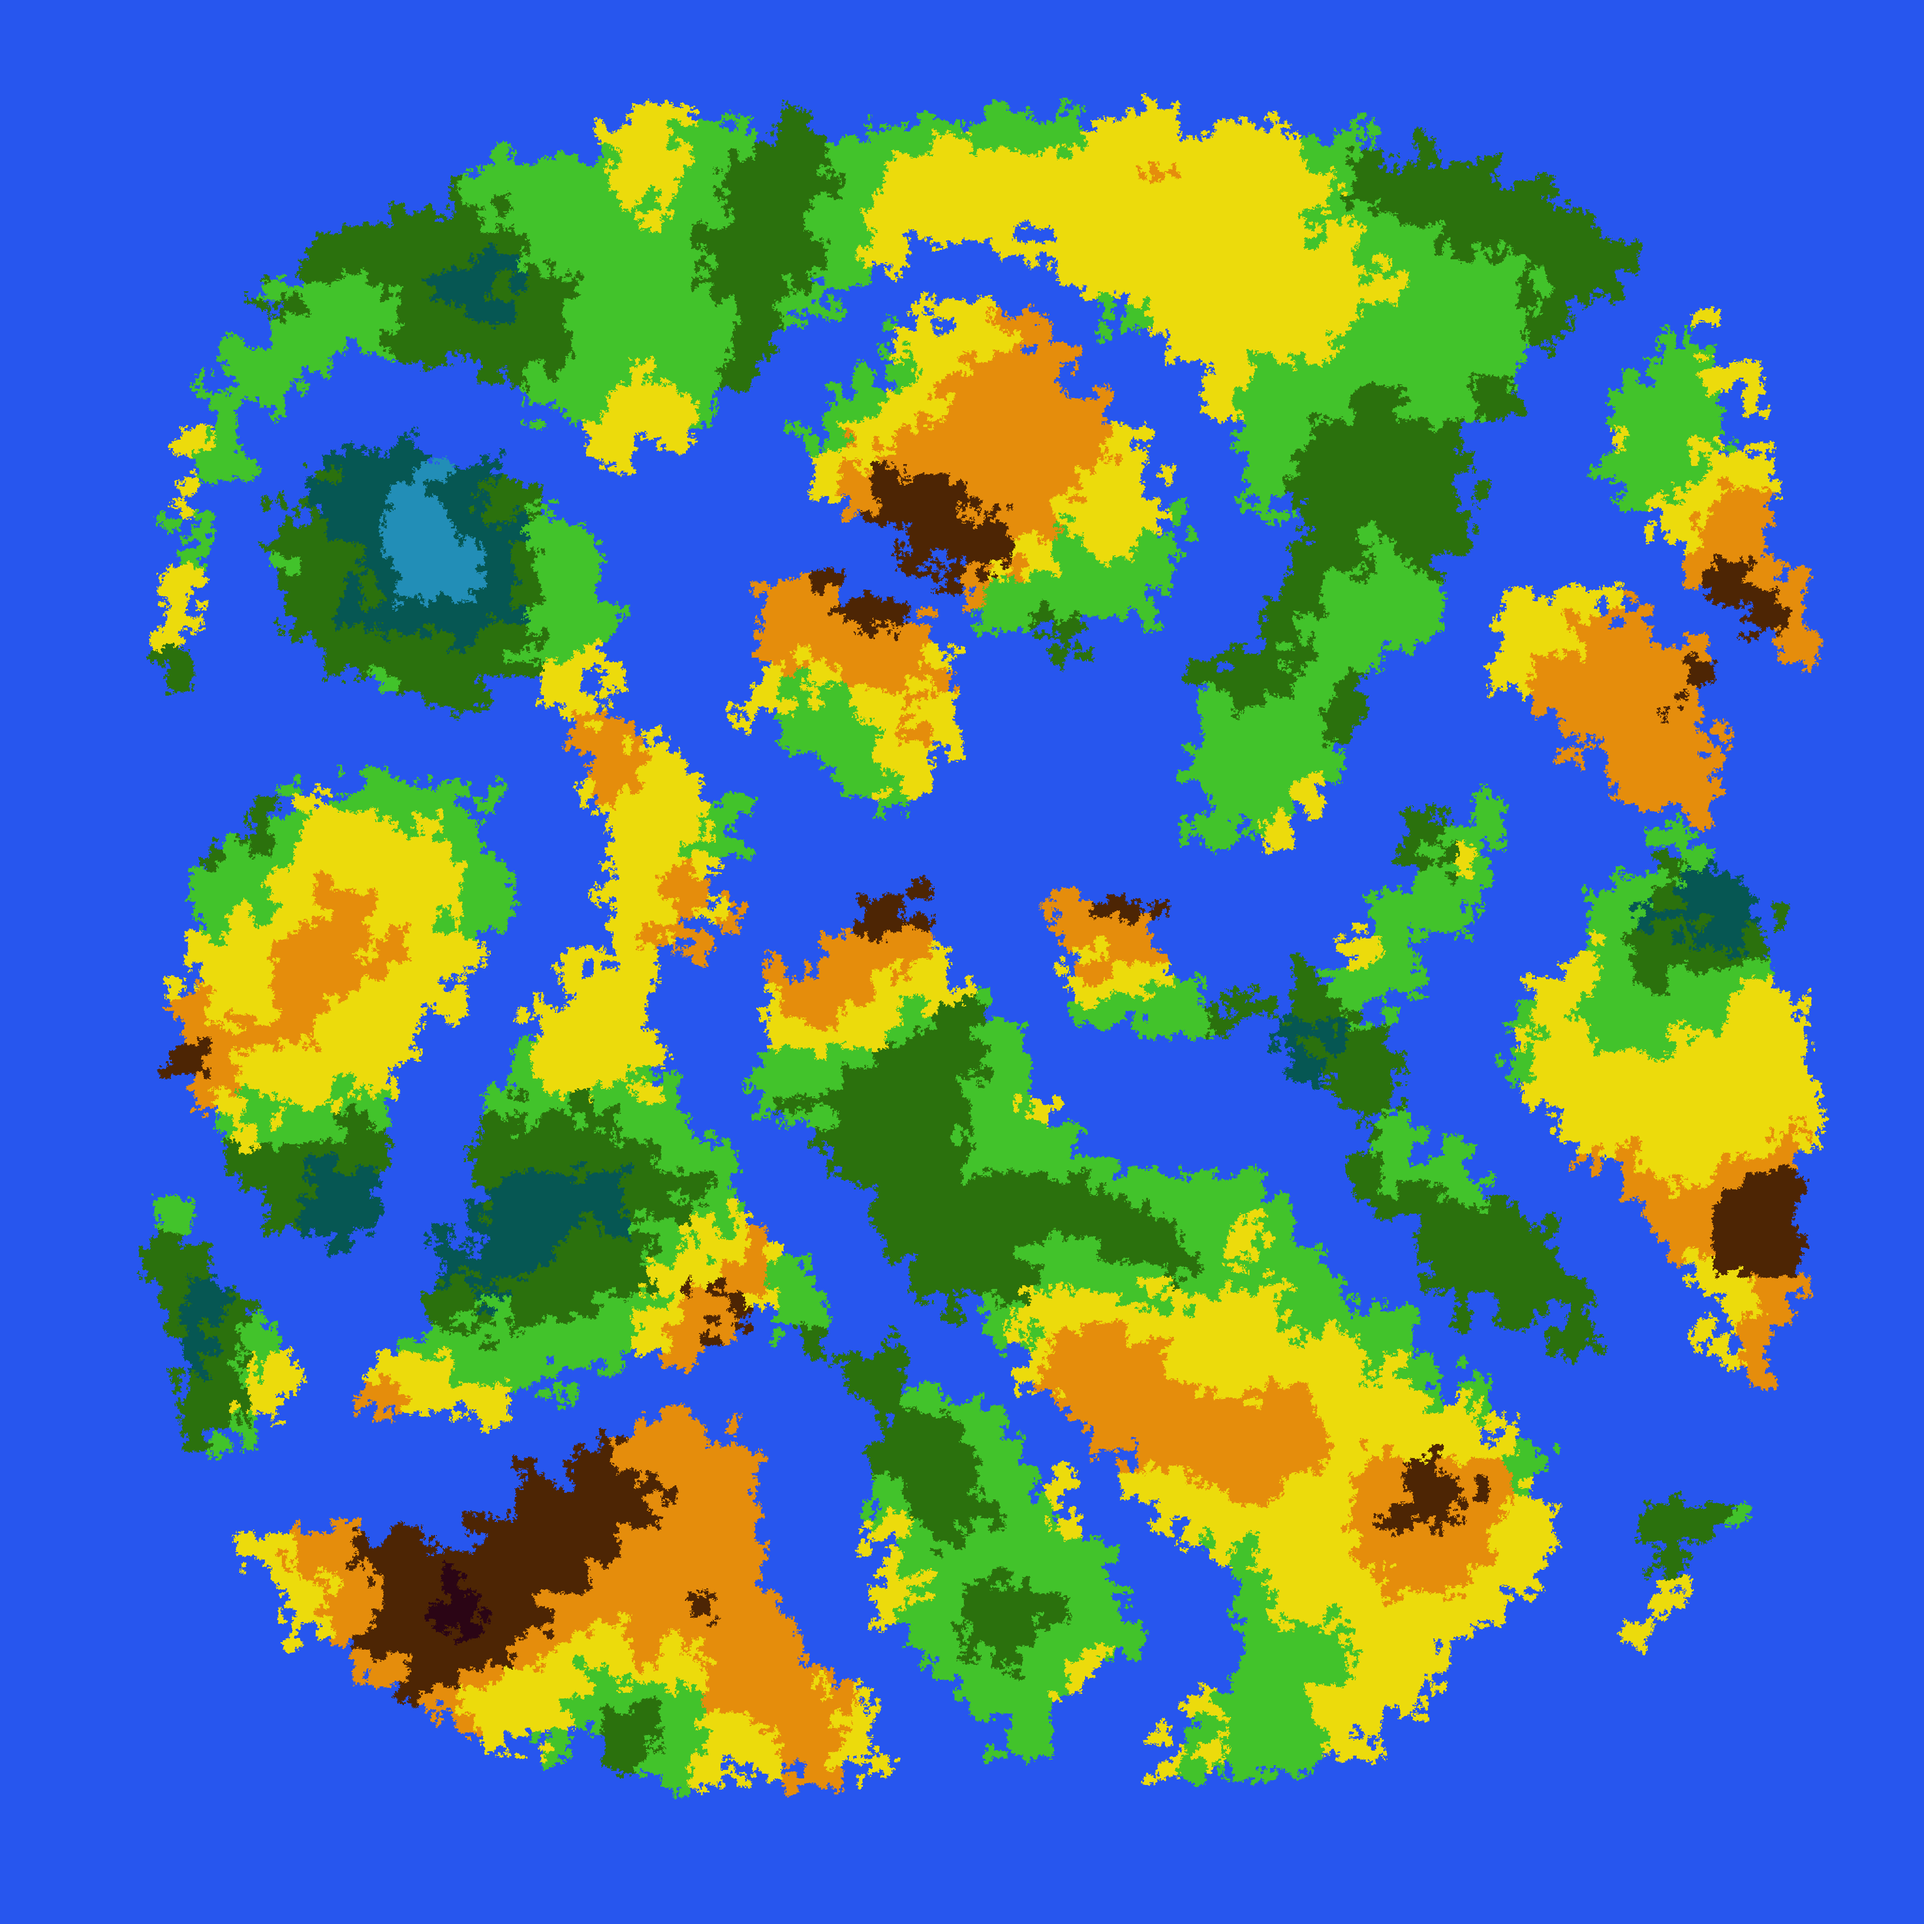
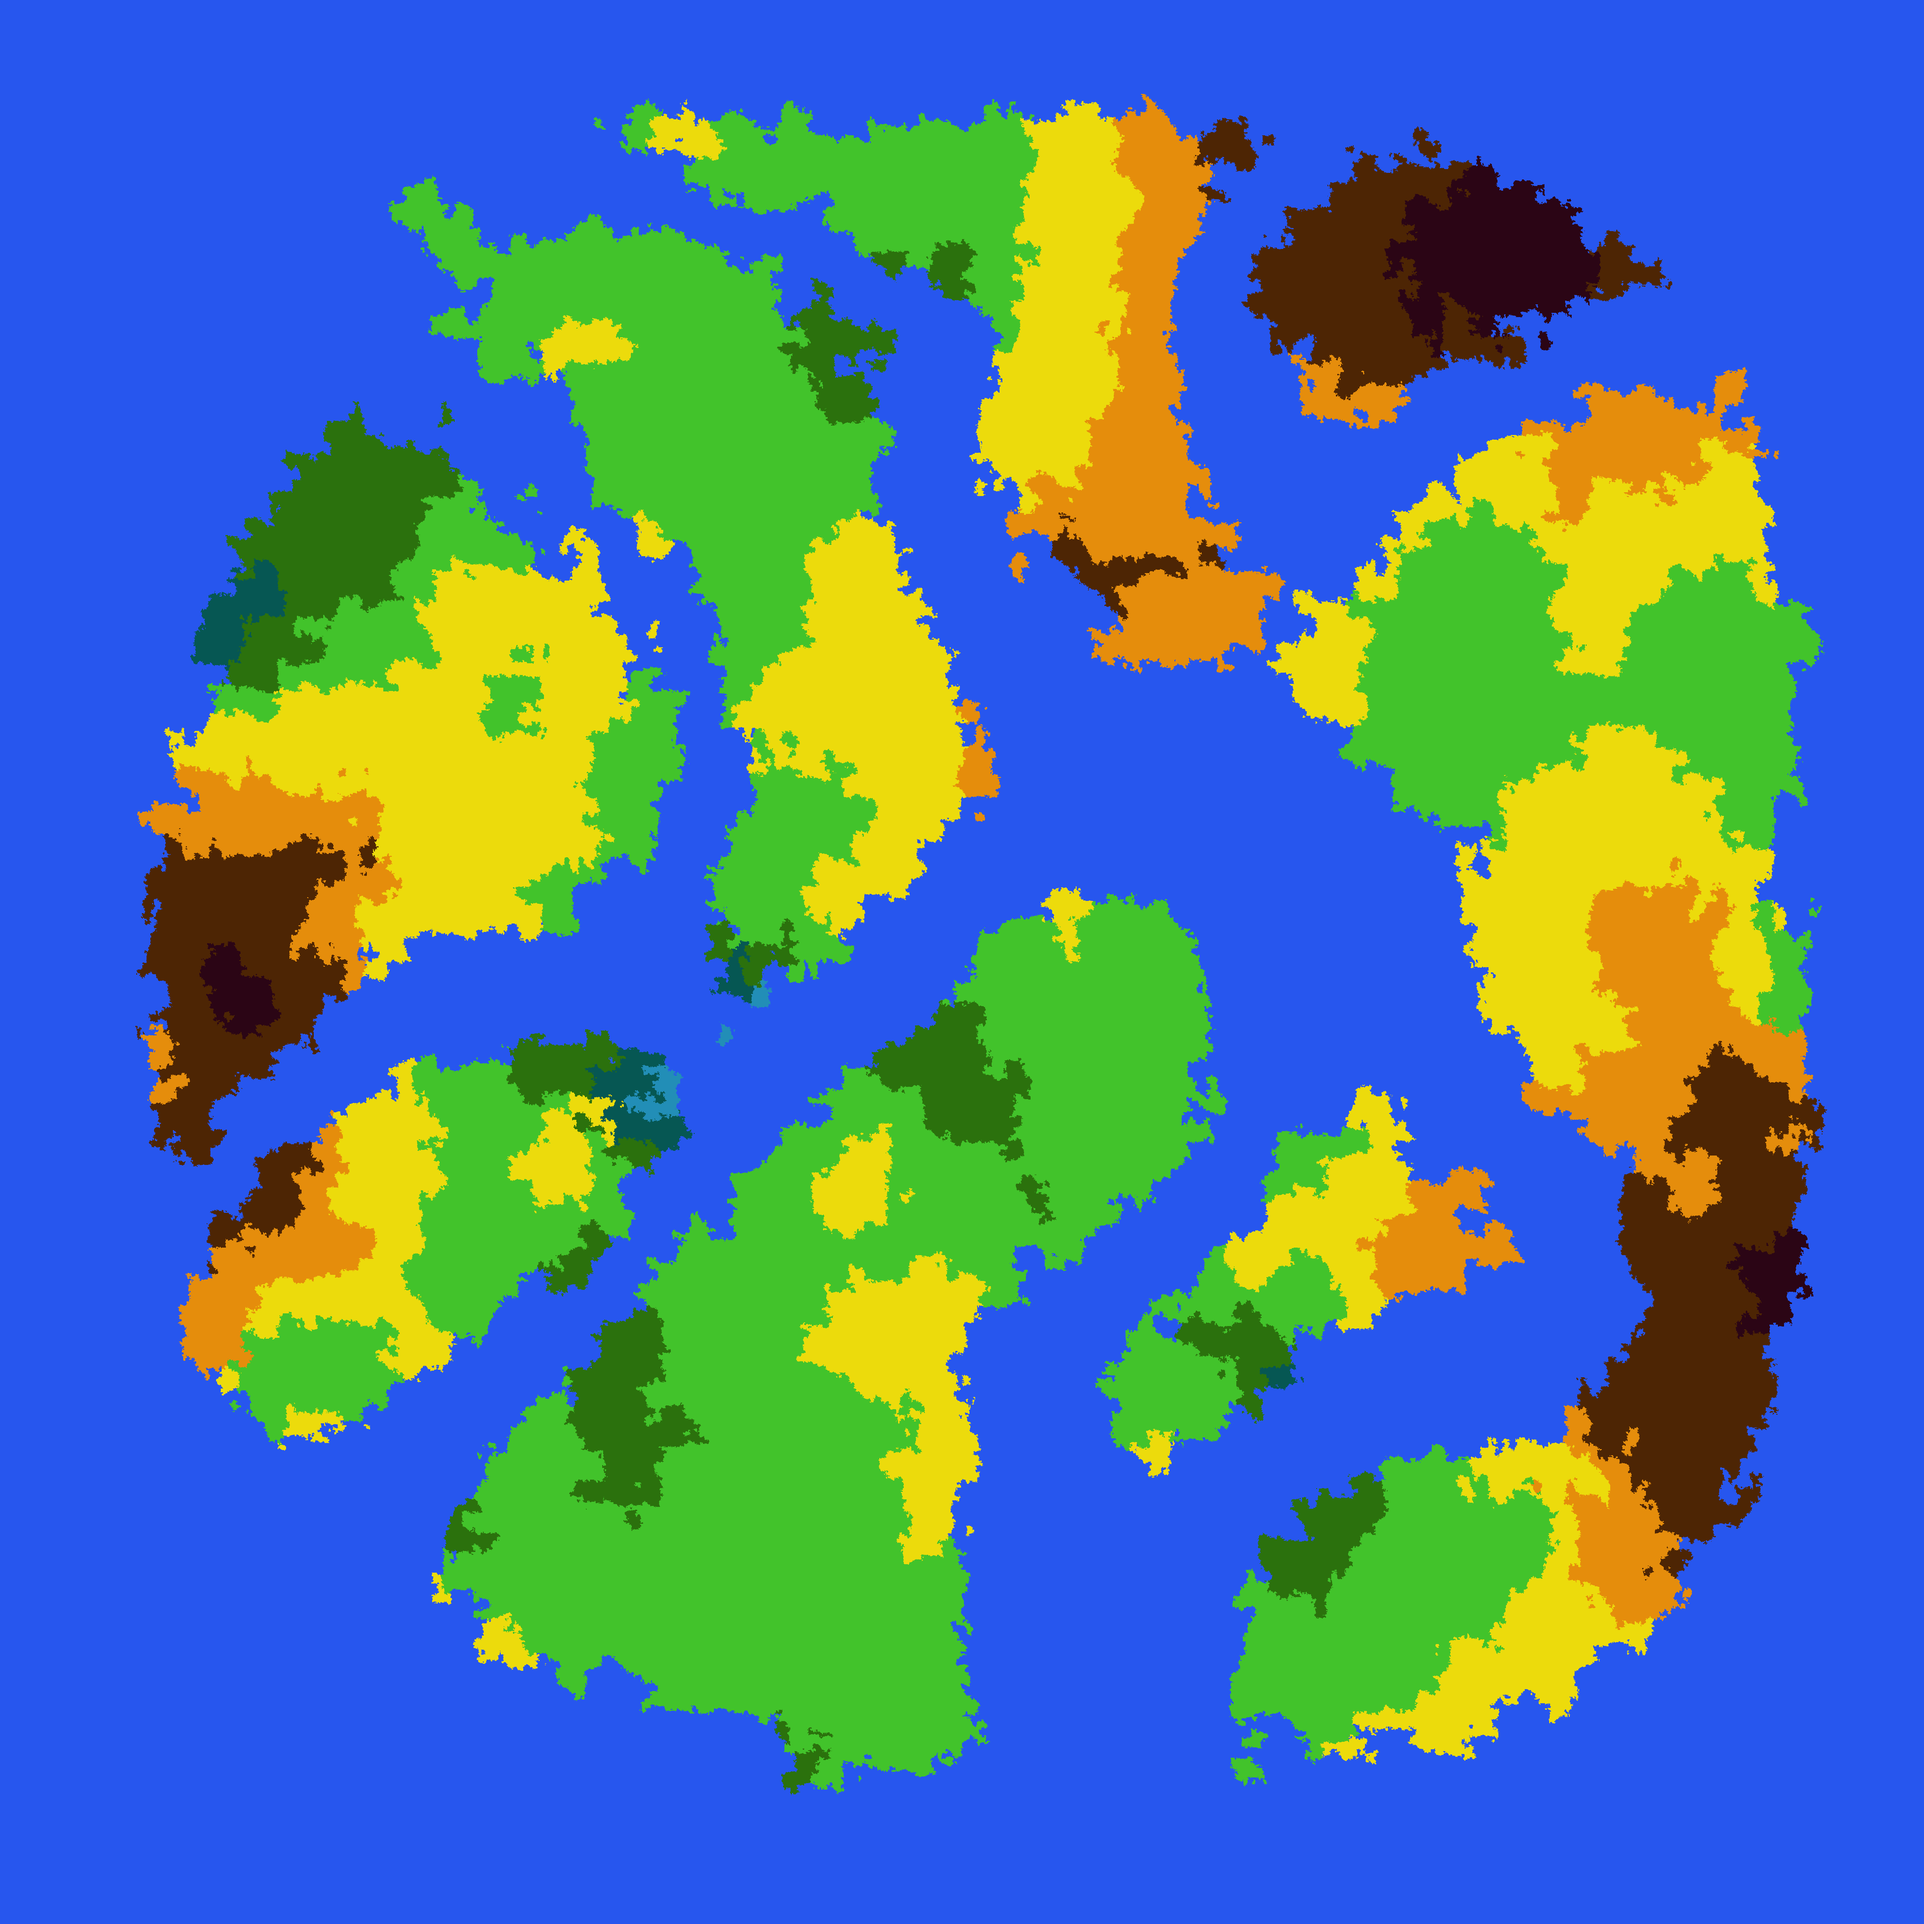
updated blur, lowered frequency, made new demo images

diff --git a/Assets/ScriptComputeManager.cs b/Assets/ScriptComputeManager.cs
@@ -138,16 +138,17 @@ internal static class PerlinMap {
 		const float mask_min = 0.01f;
 		const float mask_threshold = 0.2f;
 
-		float[,] pmask = GetPerlin(xdim, zdim, perlin_alpha: 5.01f);
-		float[,] p0 = GetPerlin(xdim, zdim, perlin_alpha: 6.93f);
-		float[,] p1 = GetPerlin(xdim, zdim, perlin_alpha: 4.97f);
-		float[,] p2 = GetPerlin(xdim, zdim, perlin_alpha: 2.97f);
+		float[,] pmask = GetPerlin(xdim, zdim, perlin_alpha: 4.01f);
+		float[,] p0 = GetPerlin(xdim, zdim, perlin_alpha: 3.93f);
+		float[,] p1 = GetPerlin(xdim, zdim, perlin_alpha: 2.97f);
+		float[,] p2 = GetPerlin(xdim, zdim, perlin_alpha: 1.97f);
 		float[,] w = GetPerlin(xdim, zdim, perlin_alpha: 12.36f);
 
 		for (int i = 0; i < map.GetLength(0); i++) {
 			for (int j = 0; j < map.GetLength(1); j++) {
 				float mask = (Mathf.Sin(i * 3.14f / xdim) * Mathf.Sin(j * 3.14f / zdim) > mask_threshold) ? mask_max : mask_min;
-				float perlin_mask = (0.3f > pmask[i, j] || 0.5f < pmask[i,j]) ? mask_max : mask_min;
+				// float perlin_mask = (0.3f > pmask[i, j] || 0.5f < pmask[i,j]) ? mask_max : mask_min;
+				float perlin_mask = (0.3f > pmask[i, j] || 0.5f < pmask[i, j]) ? mask_max : mask_min;
 				float w_inst = w[i, j];
 				float w_conj = (1 - w[i, j]) / 2;
 
